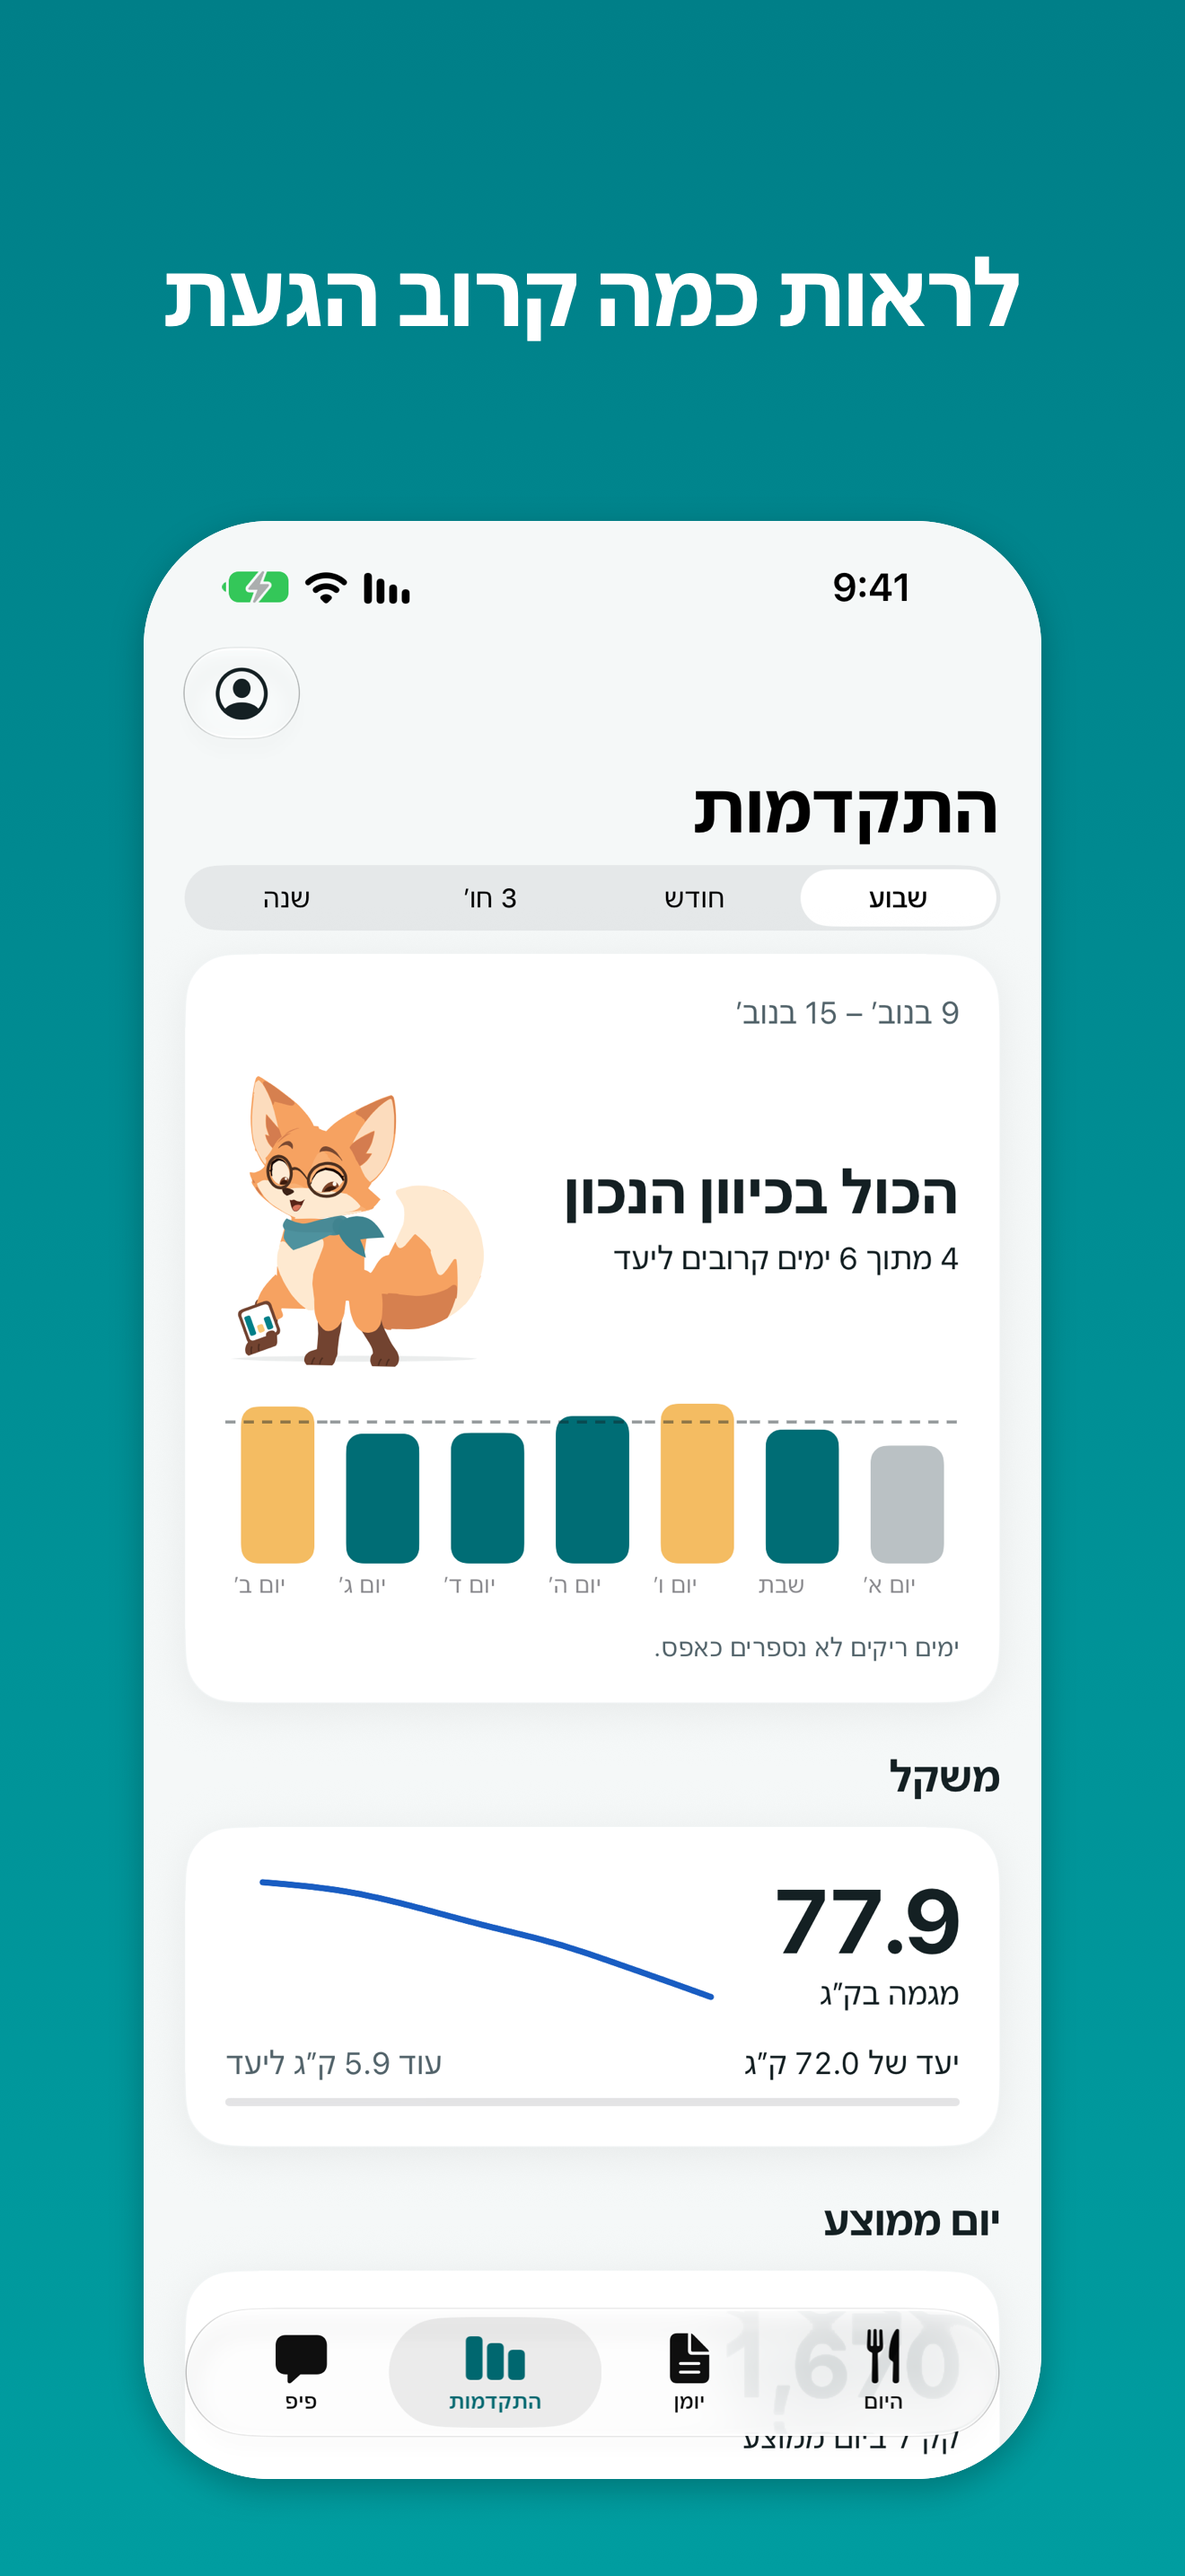
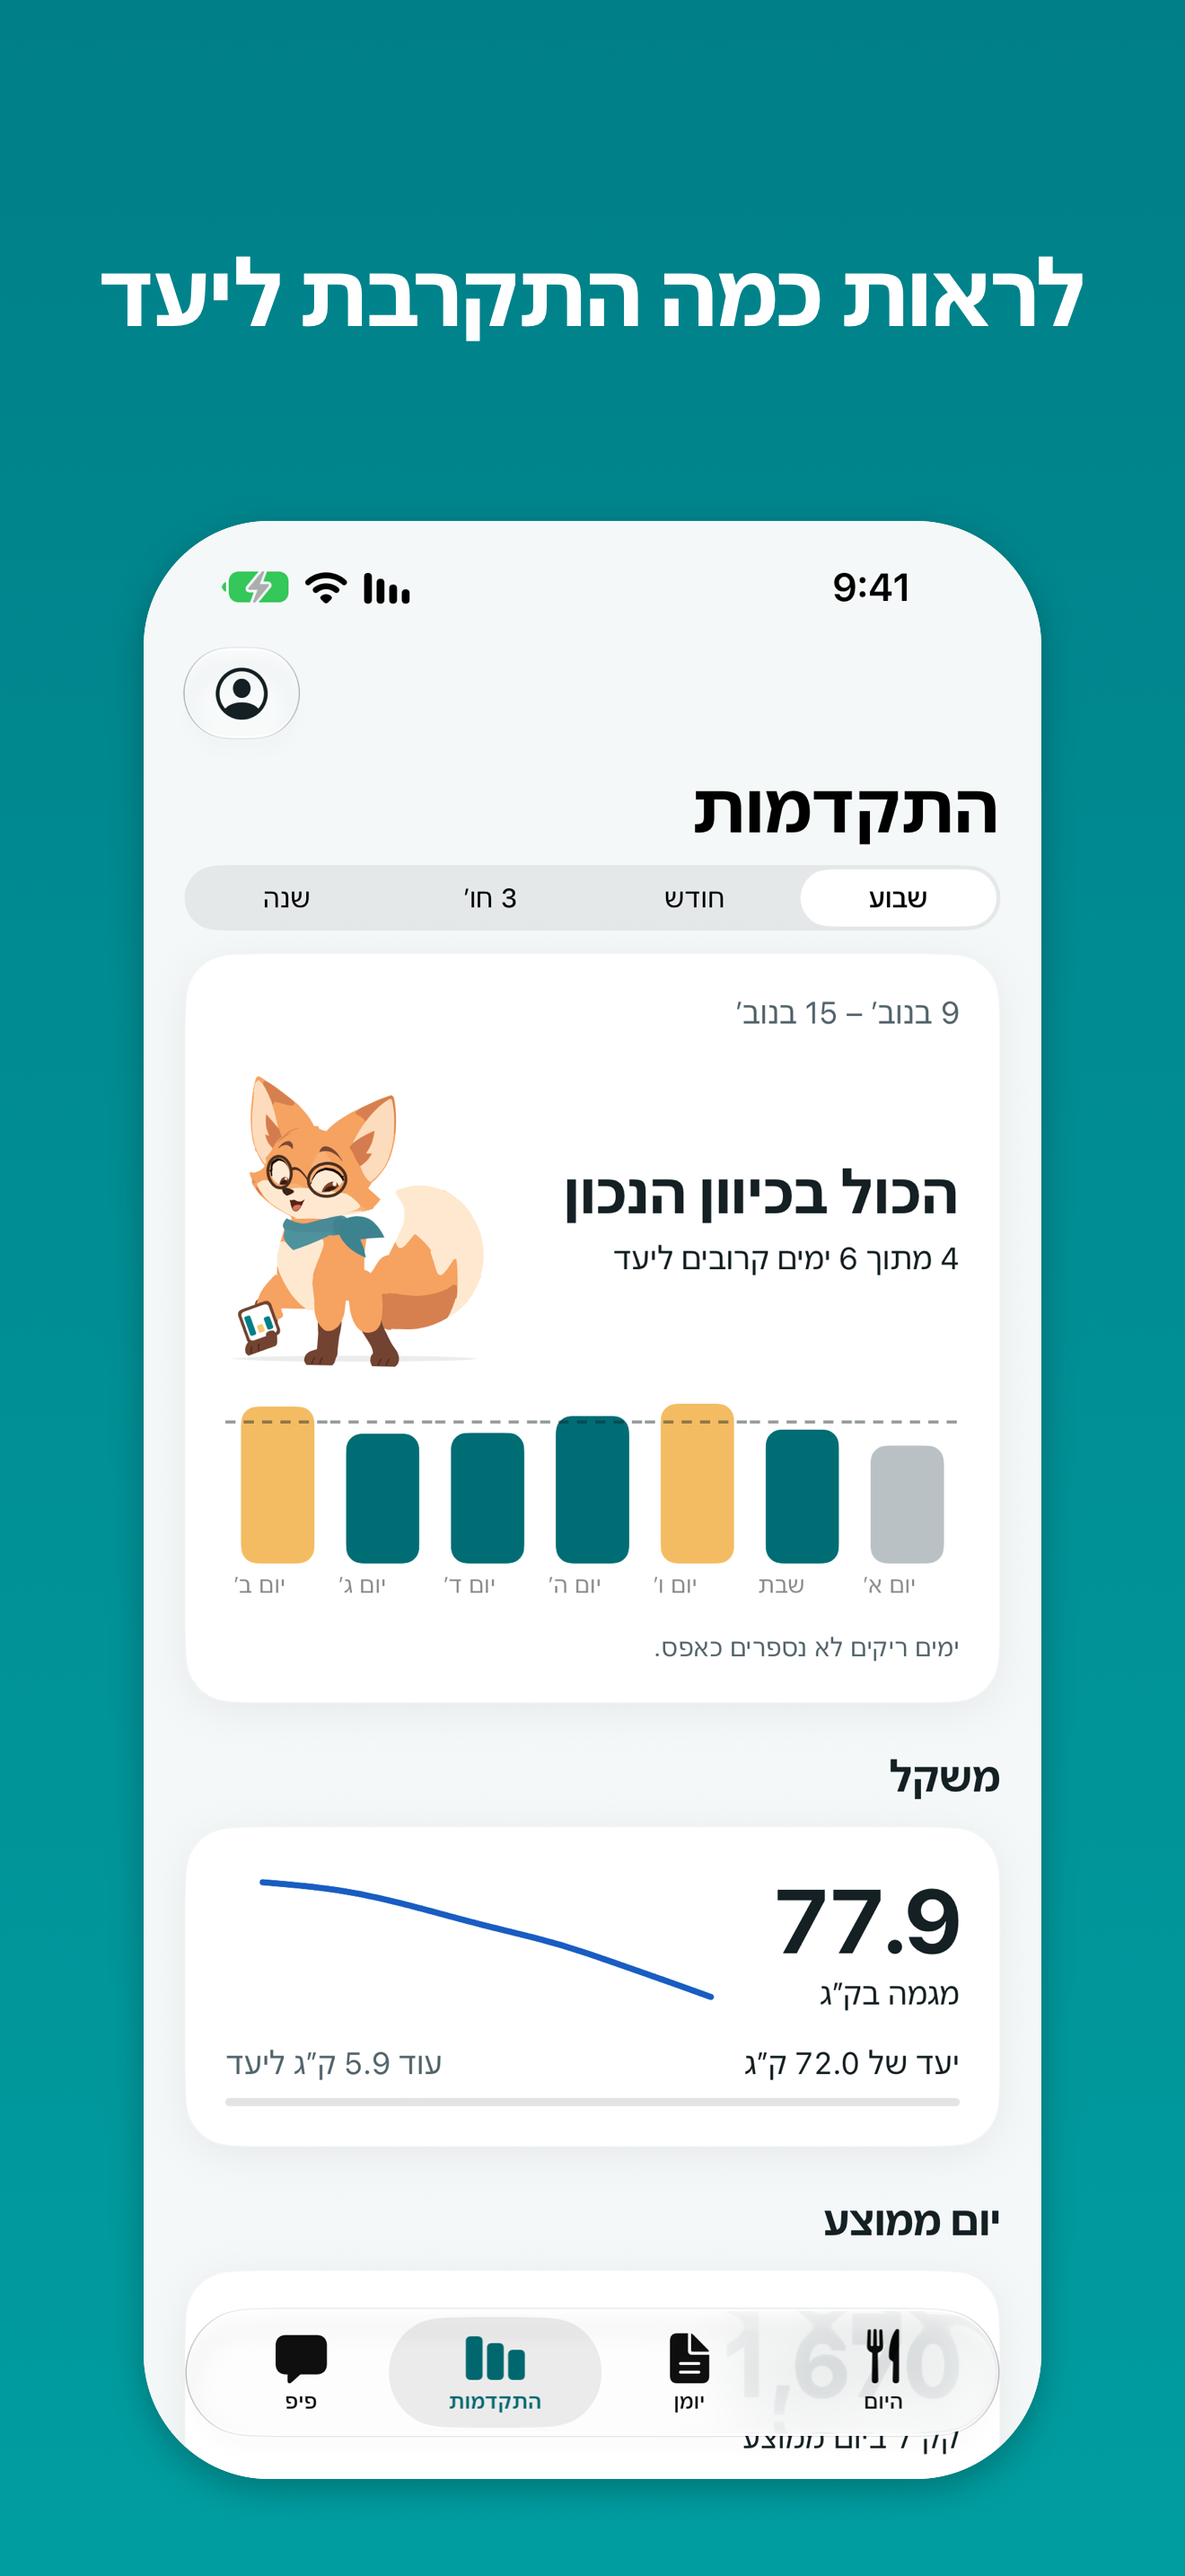
fix(languages): final Hebrew review and translated sticker descriptions
Parity: unchanged - wording only

Changed region(s): [[0.0932, 0.0931, 0.9318, 0.1552]]

diff --git a/ios/Mivu/Stickers/PipStickers.swift b/ios/Mivu/Stickers/PipStickers.swift
@@ -10,12 +10,18 @@ struct PipStickerItem: Identifiable {
 
 enum PipStickers {
     static let all: [PipStickerItem] = [
-        ("hi", "Pip waving hello", true), ("thanks", "Pip saying thank you", false),
-        ("love-it", "Pip hugging a fluffy tail, with hearts", false), ("lol", "Pip laughing", false),
-        ("ok", "Pip winking with a paw raised", false), ("oops", "Pip blushing, oops", false),
-        ("good-night", "Pip curled up asleep", true), ("yum", "Pip enjoying a salad bowl", false),
-        ("hungry", "Pip holding an empty bowl", false), ("hydrate", "Pip sipping water", false),
-        ("snack", "Pip holding up an apple", false), ("you-got-it", "Pip cheering and hopping", true),
+        ("hi", String(localized: "Pip waving hello", comment: "VoiceOver description of a Pip sticker"), true),
+        ("thanks", String(localized: "Pip saying thank you", comment: "VoiceOver description of a Pip sticker"), false),
+        ("love-it", String(localized: "Pip hugging a fluffy tail, with hearts", comment: "VoiceOver description of a Pip sticker"), false),
+        ("lol", String(localized: "Pip laughing", comment: "VoiceOver description of a Pip sticker"), false),
+        ("ok", String(localized: "Pip winking with a paw raised", comment: "VoiceOver description of a Pip sticker"), false),
+        ("oops", String(localized: "Pip blushing, oops", comment: "VoiceOver description of a Pip sticker"), false),
+        ("good-night", String(localized: "Pip curled up asleep", comment: "VoiceOver description of a Pip sticker"), true),
+        ("yum", String(localized: "Pip enjoying a salad bowl", comment: "VoiceOver description of a Pip sticker"), false),
+        ("hungry", String(localized: "Pip holding an empty bowl", comment: "VoiceOver description of a Pip sticker"), false),
+        ("hydrate", String(localized: "Pip sipping water", comment: "VoiceOver description of a Pip sticker"), false),
+        ("snack", String(localized: "Pip holding up an apple", comment: "VoiceOver description of a Pip sticker"), false),
+        ("you-got-it", String(localized: "Pip cheering and hopping", comment: "VoiceOver description of a Pip sticker"), true),
     ].map { PipStickerItem(id: $0.0, accessibilityText: $0.1, animated: $0.2) }
 
     // https://github.com/WhatsApp/stickers/blob/main/iOS/WAStickersThirdParty/Interoperability.swift

diff --git a/docs/verification/2026-11-15-languages-step3.md b/docs/verification/2026-11-15-languages-step3.md
@@ -113,7 +113,8 @@ asked for more natural Hebrew, native-speaker review passes were applied:
 | 1 | `6c020e72` | 116 (3 errors) | Formal register ("לא ניתן", "יש ל…"), wrong words ("תוקף", "צריכת האנרגיה", "שליחות"), Apple terms ("להקיש", "הכתבה", "אייפון"); glossary updated |
 | 2 | `bc628610` | 66 (3 errors) | Remaining "יש ל…" hints, "בתוקף מ-", and "ל" before a date that starts with a digit |
 | 3 | `efc534d9` | 10 (3 errors) | Prefixes and sentence shape once a value is filled in; Siri phrases reviewed |
-| 4 | this commit | 16 (11 errors) | Each placeholder string traced to its Swift caller (about 165 of 272) and read with real values: food names, "היום", weekday-led dates |
+| 4 | `bc46a612` | 16 (11 errors) | Each placeholder string traced to its Swift caller (about 165 of 272) and read with real values: food names, "היום", weekday-led dates |
+| 5 | this commit | 7 (1 error) | Final read after merging `main` (#141 stickers): the sticker strings, the remaining placeholders and the listing; screenshot 3 re-framed with its new caption |
 
 Pass 3 also found that the late-meal receipt on Today ("Added to …" /
 "Saved on this iPhone") was a plain String and never translated; it now uses
@@ -130,6 +131,14 @@ diary" and "this private local profile" in two confirmation titles. After pass 4
 43/43; LanguageSweep hebrew on iPhone and Duo, 6 passed and 3 skipped each.
 Left as is: a few sentences show an ISO date ("2026-11-16") in both
 languages; changing their format would change English.
+
+Pass 5 also made the 12 sticker descriptions VoiceOver reads translatable (they
+were plain Strings) and added their Hebrew; English is unchanged. After pass 5,
+on the merge with `main` at `9b24b3fc`: `PipStickersTests`,
+`PipStickerExportTests` and `PipStickerUITests` 9/9; LanguageSweep hebrew on
+the Duo 6 passed, 3 skipped; on the iPhone 5 passed, 3 skipped and
+`testTextIsHebrew` failed once because Settings showed no Goals row yet (the
+load timing seen above), then passed on its own.
 
 ## Blocked or not run
 

diff --git a/docs/app-store/listing.he.md b/docs/app-store/listing.he.md
@@ -61,6 +61,6 @@ Captured on an iPhone 17 Pro Max simulator in Hebrew with a real ChatGPT connect
 
 1. `screenshots/he/01-coach.png` — לרשום ארוחה במילים שלך
 2. `screenshots/he/02-today.png` — כל היום במבט אחד
-3. `screenshots/he/03-progress.png` — לראות כמה קרוב הגעת
+3. `screenshots/he/03-progress.png` — לראות כמה התקרבת ליעד
 4. `screenshots/he/04-targets.png` — יעדים שמתאימים לך
 5. `screenshots/he/05-diary.png` — היומן נשאר באייפון שלך
